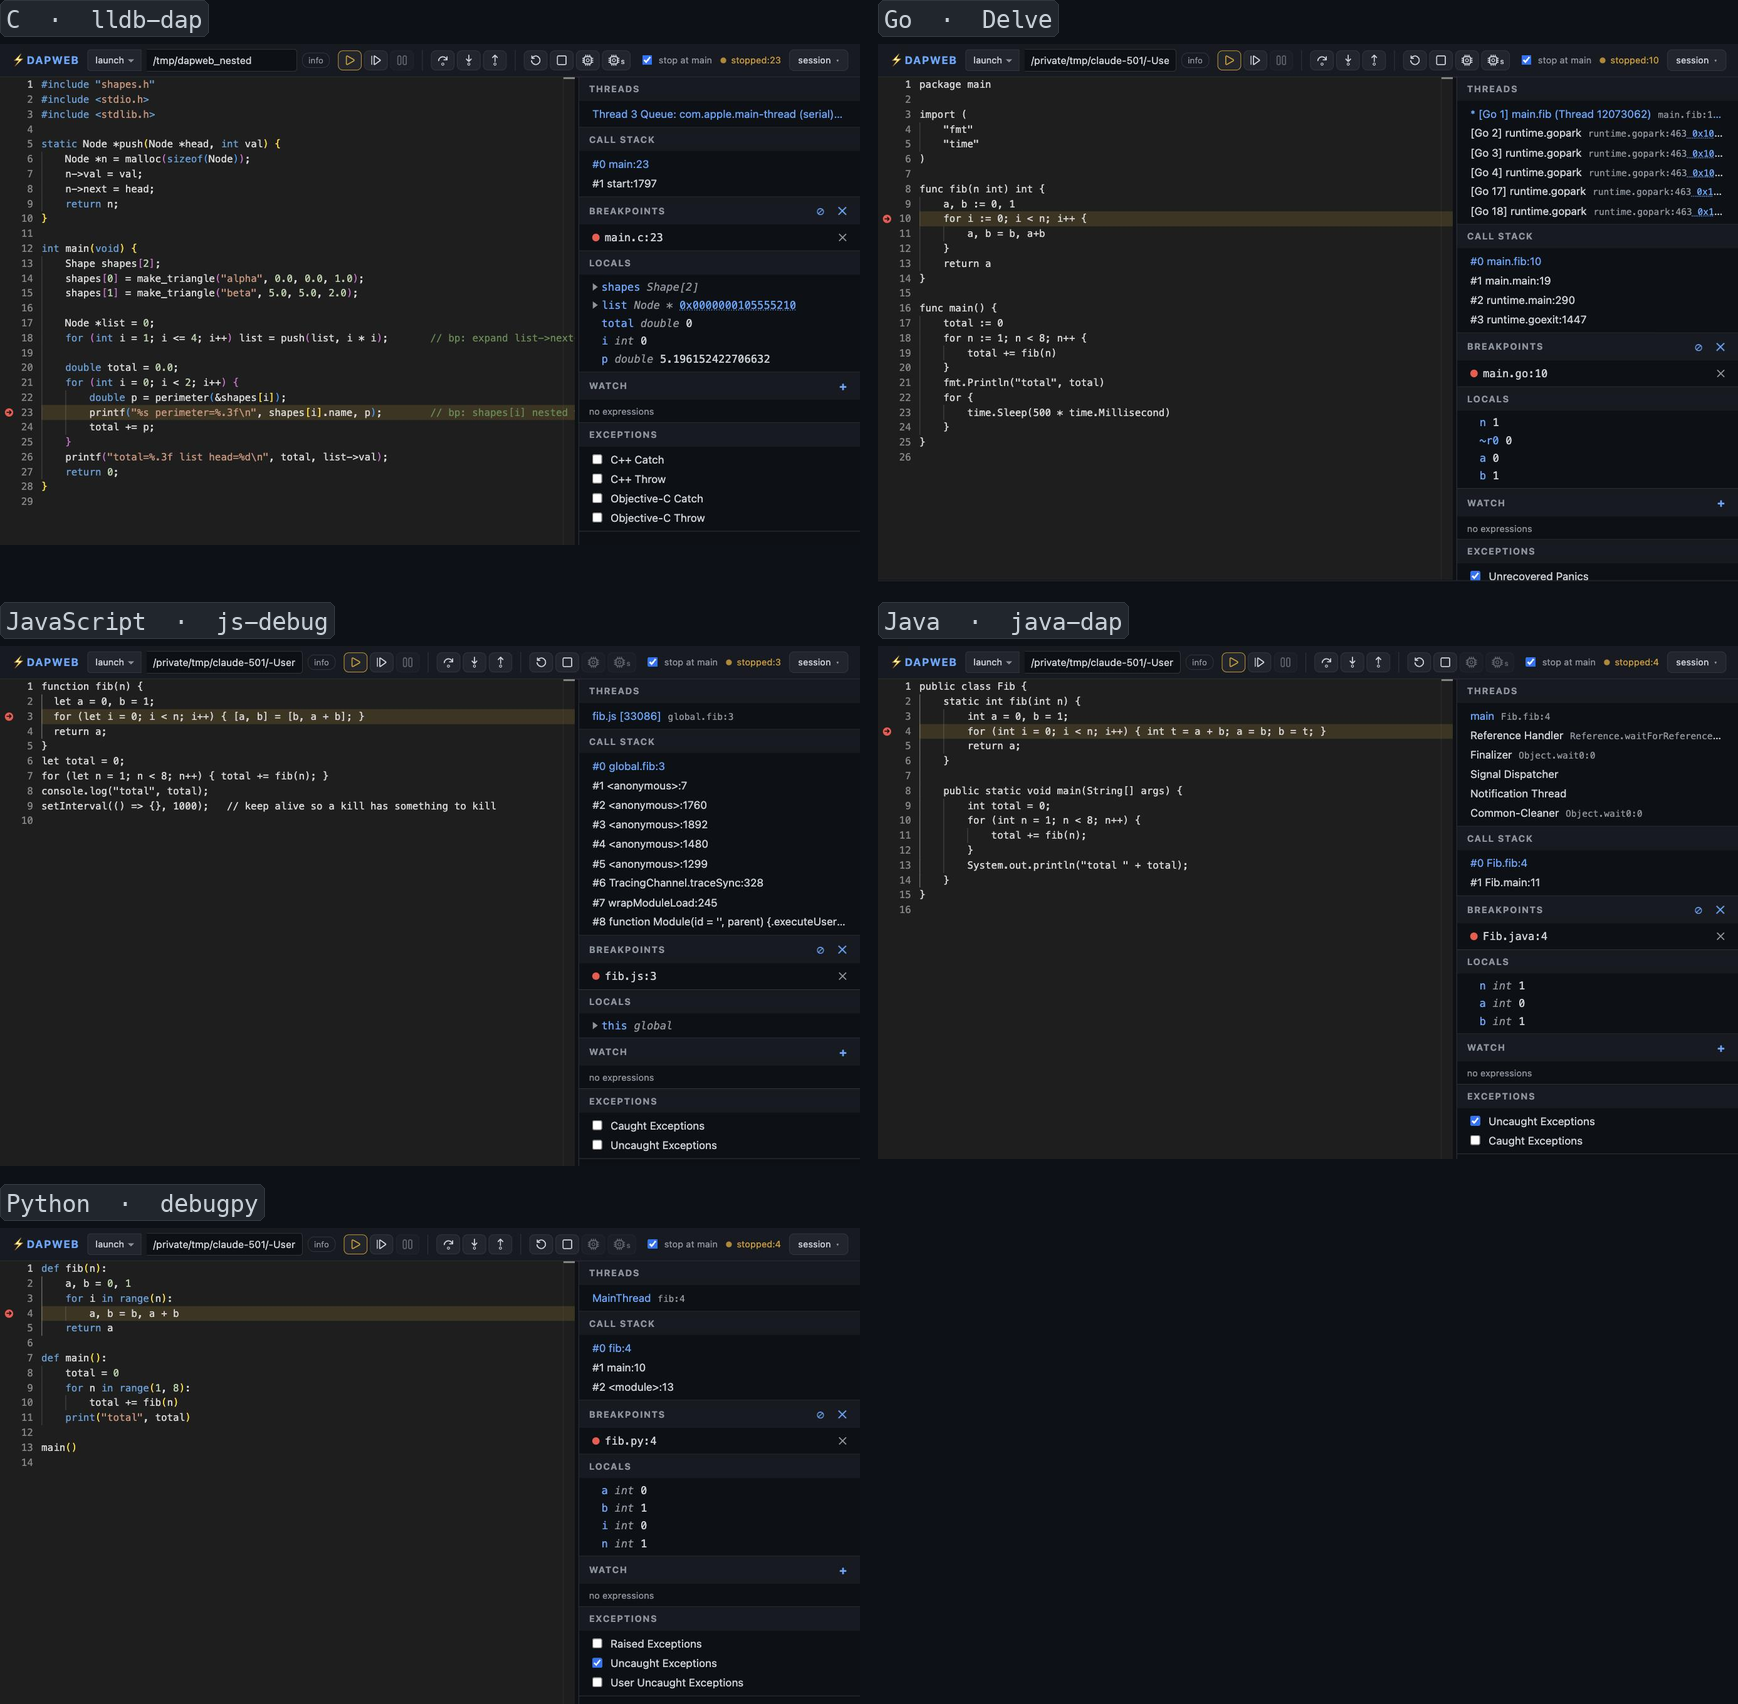
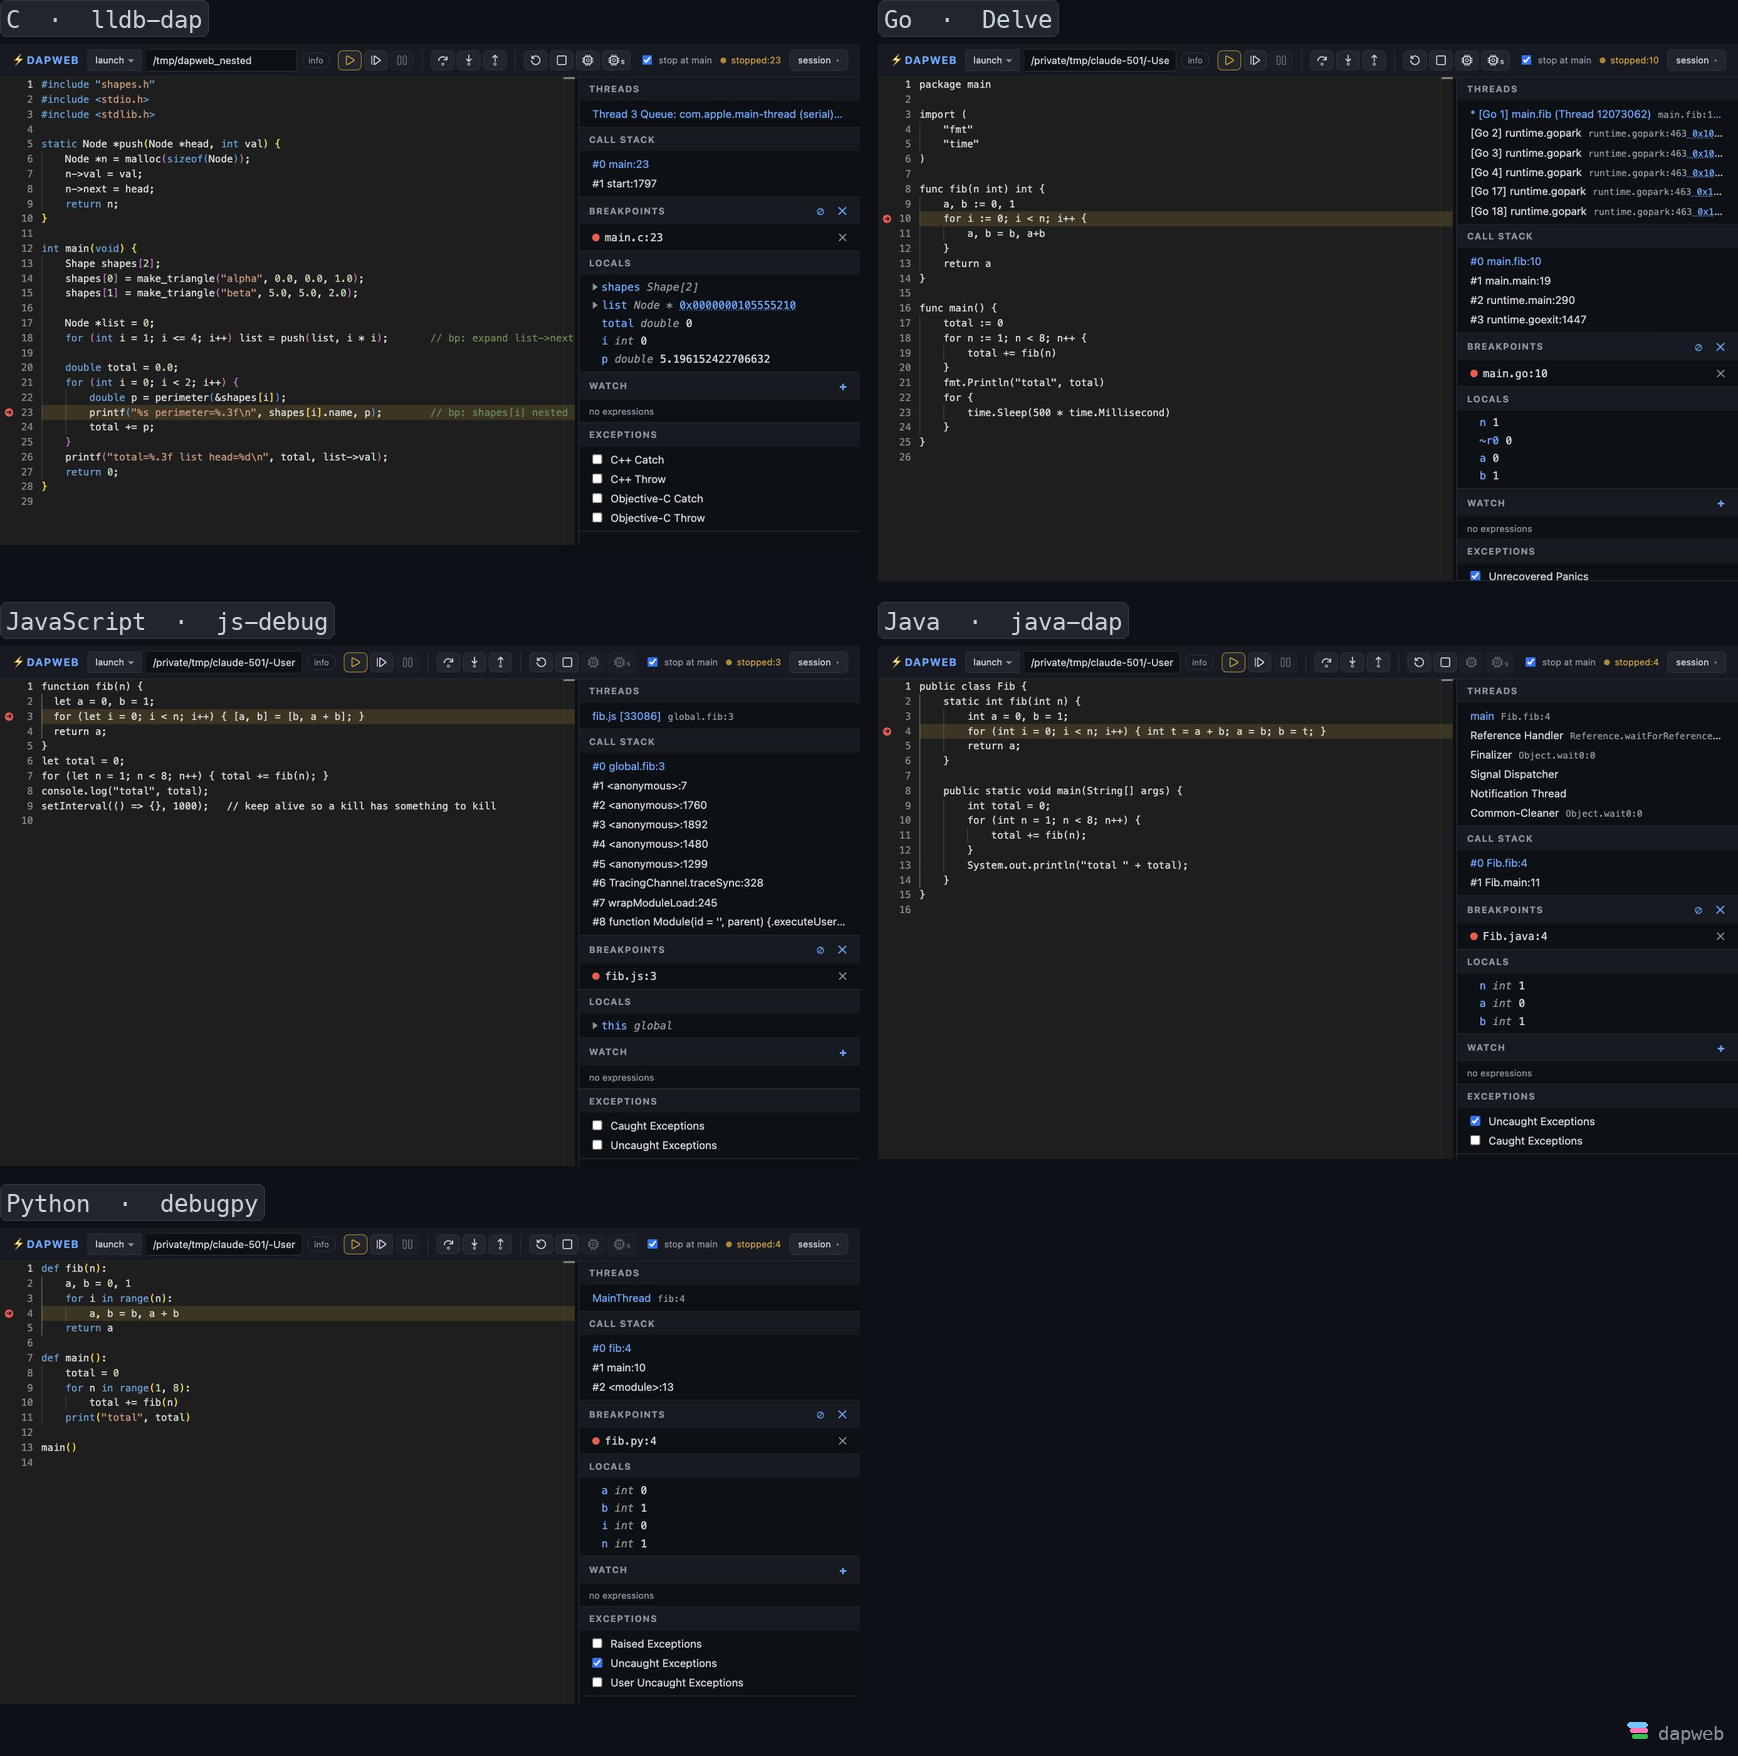
a composite is cropped out of the app's own chrome, so nothing left in the frame said where the picture came from: annotate-shots adds the mark and the name in a strip under the image, in the strip rather than over it because a watermark covers the one thing a screenshot exists to show. the hero kee
the readme opens on the card now: the wordmark, what the thing is in one line, and a miniature of the real window, which is the shape a person scanning a repo page reads before any prose

diff --git a/scripts/annotate-shots.py b/scripts/annotate-shots.py
@@ -281,8 +281,40 @@ def pair(spec):
                             radius=6, fill=ACCENT)
         d.text((x + PAD, PAD - 1), label, font=cap_font, fill=(20, 12, 20))
 
+    out = _brand(out, spec)
     out.save(spec["out"])
     print(f"wrote {spec['out']}  ({out.width}x{out.height})")
+
+def _brand(img, spec):
+    """Add a footer strip carrying the mark and the name.
+
+    A composite is cropped out of the app's own chrome, so nothing left in the
+    frame says where the picture came from. It goes in a strip below the image
+    rather than on top of it: a watermark over a screenshot covers exactly the
+    thing the screenshot is there to show. The mark is the same three call-stack
+    bars the UI wears, at the SVG's proportions (viewBox 32 wide, bars at y
+    6 / 13.5 / 21, indented 3 / 6 / 9).
+    """
+    if not spec.get("brand", True):
+        return img
+    h = int(spec.get("brand_size", 24))
+    pad = int(spec.get("brand_pad", 14))
+    strip = h + 2 * pad
+    out = Image.new("RGB", (img.width, img.height + strip), tuple(spec.get("bg", (13, 17, 23))))
+    out.paste(img, (0, 0))
+    d = ImageDraw.Draw(out)
+    font = _font(int(h * 0.8))
+    label = "dapweb"
+    tw = d.textlength(label, font=font)
+    s = h / 32.0                       # the SVG's viewBox scale
+    x = out.width - pad - tw - 9 - h
+    y = img.height + pad
+    for (bx, by, bw, hue) in ((3, 6, 26, "r-code"), (6, 13.5, 23, "r-heap"), (9, 21, 20, "r-stack")):
+        d.rounded_rectangle([x + bx * s, y + by * s,
+                             x + (bx + bw) * s, y + (by + 5.5) * s],
+                            radius=max(1, round(2 * s)), fill=_rgb(hue, (137, 148, 158)))
+    d.text((x + h + 9, y + h * 0.16), label, font=font, fill=_rgb("muted", (139, 148, 158)))
+    return out
 
 def grid(spec):
     """One picture of the same UI on several debuggers.
@@ -337,6 +369,7 @@ def grid(spec):
                             radius=6, fill=lab_bg, outline=CHIP_EDGE, width=1)
         d.text((x + PAD, y + PAD - 1), label, font=font, fill=lab_fg)
         out.paste(im, (x, y + cap))
+    out = _brand(out, spec)
     out.save(spec["out"])
     print(f"wrote {spec['out']}  ({out.width}x{out.height}, {len(tiles)} tiles)")
 

diff --git a/README.md b/README.md
@@ -1,15 +1,19 @@
-# dapweb
+<p align="center">
+  <img src="src/web/ui/og.png" alt="dapweb: any DAP debugger, in a browser tab" width="900">
+</p>
 
 <p align="center">
-  <img src="docs/images/debugging.png" alt="dapweb stopped at a breakpoint: source view, call stack, nested locals, and a terminal showing both the program's output and the agent's last command" width="900">
+  <b><a href="https://github.com/milo-language/dapweb/releases/tag/latest">Download</a></b> ·
+  <b><a href="https://milo-language.github.io/milo/">Docs</a></b> ·
+  built in <a href="https://github.com/milo-language/milo">Milo</a>
 </p>
 
 A browser front end for any DAP debugger, built so that you and an AI agent can
 drive the same debuggee at the same time.
 
-**[Download](https://github.com/milo-language/dapweb/releases/tag/latest)** ·
-**[Docs](https://milo-language.github.io/milo/)** ·
-built in [Milo](https://github.com/milo-language/milo)
+<p align="center">
+  <img src="docs/images/debugging.png" alt="dapweb stopped at a breakpoint: source view, call stack, nested locals, and a terminal showing both the program's output and the agent's last command" width="900">
+</p>
 
 ## The debuggers
 
@@ -166,10 +170,13 @@ scripts/test.sh agent   # one suite (substring match)
 ```
 
 The README images are generated, not hand-cropped: `docs/shots/` holds the raw
-screenshots and `docs/*.json` the callouts drawn over them.
+screenshots, `docs/*.json` the crops and callouts drawn over them, and
+`scripts/annotate-shots.py` does the drawing (it reads the palette out of
+`styles.css`, so the pictures cannot drift from the UI). The card at the top is
+`src/web/ui/og-card.html`, screenshotted headless; the command is in its
+comment. `docs/design-system.md` is the rest of the rules.
 
 ```sh
 python3 -m venv /tmp/venv && /tmp/venv/bin/pip install Pillow
-/tmp/venv/bin/python scripts/annotate-shots.py docs/session-story.json
-/tmp/venv/bin/python scripts/annotate-shots.py docs/pair.json
+for spec in docs/*.json; do /tmp/venv/bin/python scripts/annotate-shots.py "$spec"; done
 ```

diff --git a/docs/design-system.md b/docs/design-system.md
@@ -79,3 +79,8 @@ The recipe for a raw shot:
 The spec then crops per tile to where the content ends, sizes each grid row to
 its own tallest tile, and captions with `--chip-bg`. A caption is never a signal
 colour; the callout outline (`--agent`) is, and is spent on one thing per frame.
+
+A composite gets the mark and the name in a strip below it (`"brand": true`,
+the default), never over the picture: a watermark covers the one thing a
+screenshot exists to show. A shot that still has the app's own header in frame
+sets `"brand": false`, since the wordmark is already in it.
